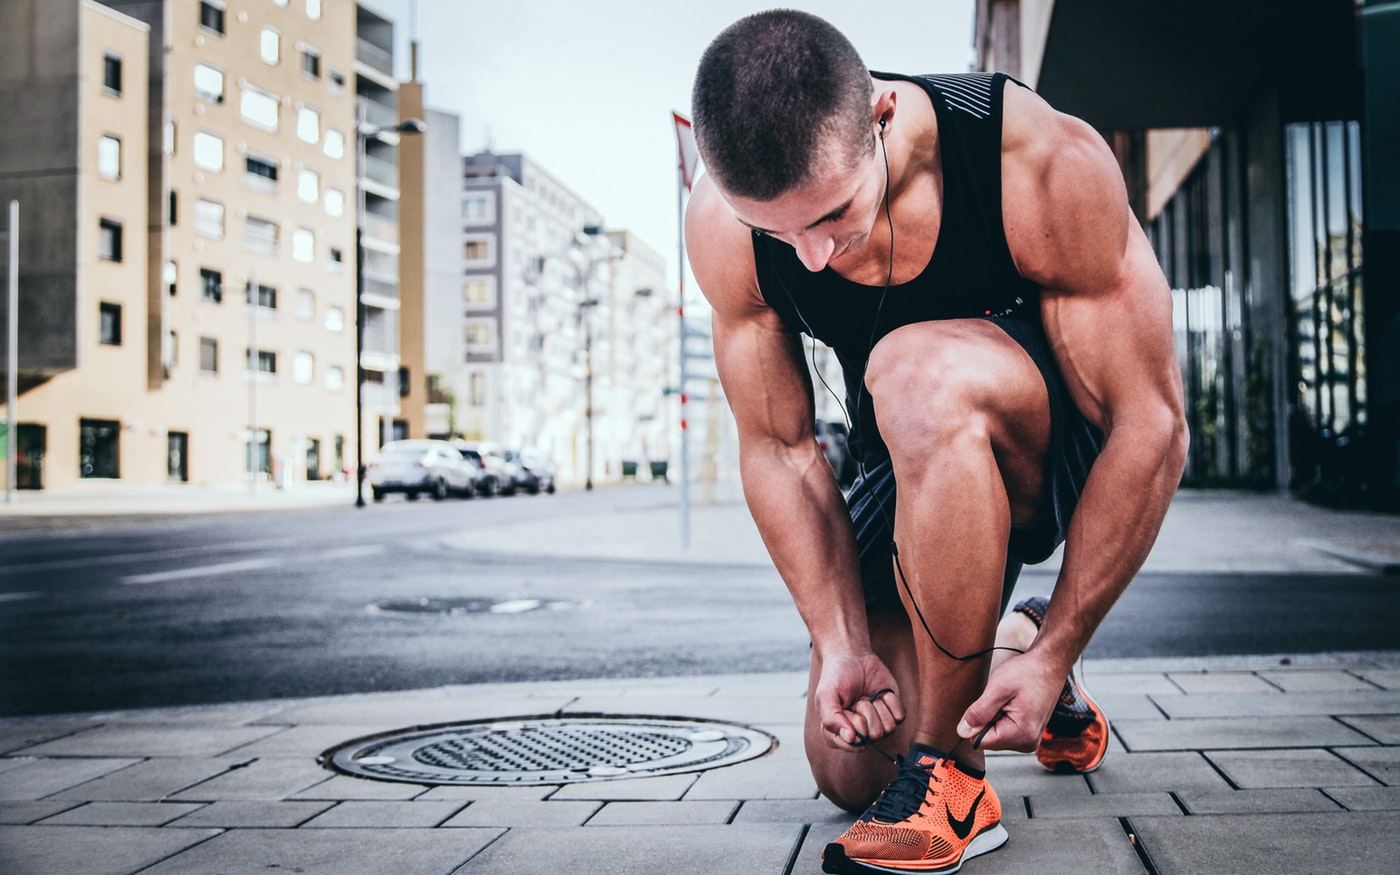
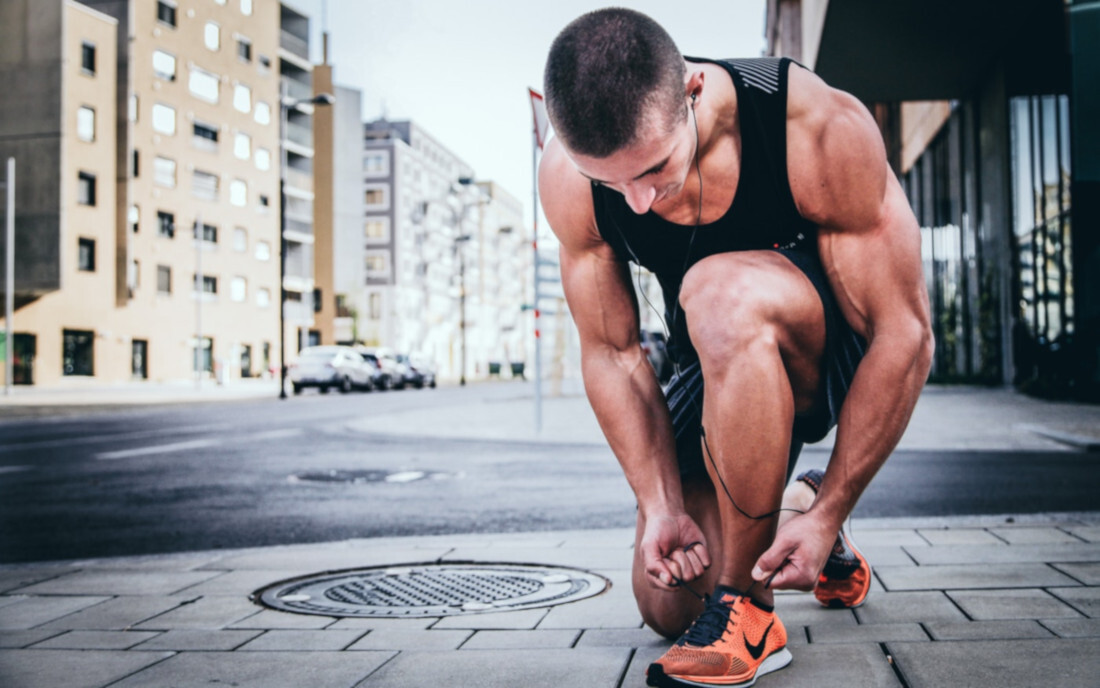
corrections des tailles

Changed region(s): [[0.6182, 0.8852, 0.7109, 1.0], [0.3709, 0.8547, 0.4945, 0.9157], [0.6491, 0.0916, 0.7109, 0.1526]]

diff --git a/assets/scss/navbar.scss b/assets/scss/navbar.scss
@@ -8,6 +8,8 @@ $navbarUnderlineHover: #00ffff;
     left: 0;
     width: 100vw;
     height: 689px;
+    background-repeat: no-repeat;
+    background-size: cover;
     background-image: url("../../assets/images/header_sportif_lacets.jpg");
 }
 
@@ -21,6 +23,7 @@ $navbarUnderlineHover: #00ffff;
     left: 0;
     width: 100vw;
     height: 689px;
+    background-repeat: no-repeat;
     background-color: $colorHoverHeader;
 }
 
